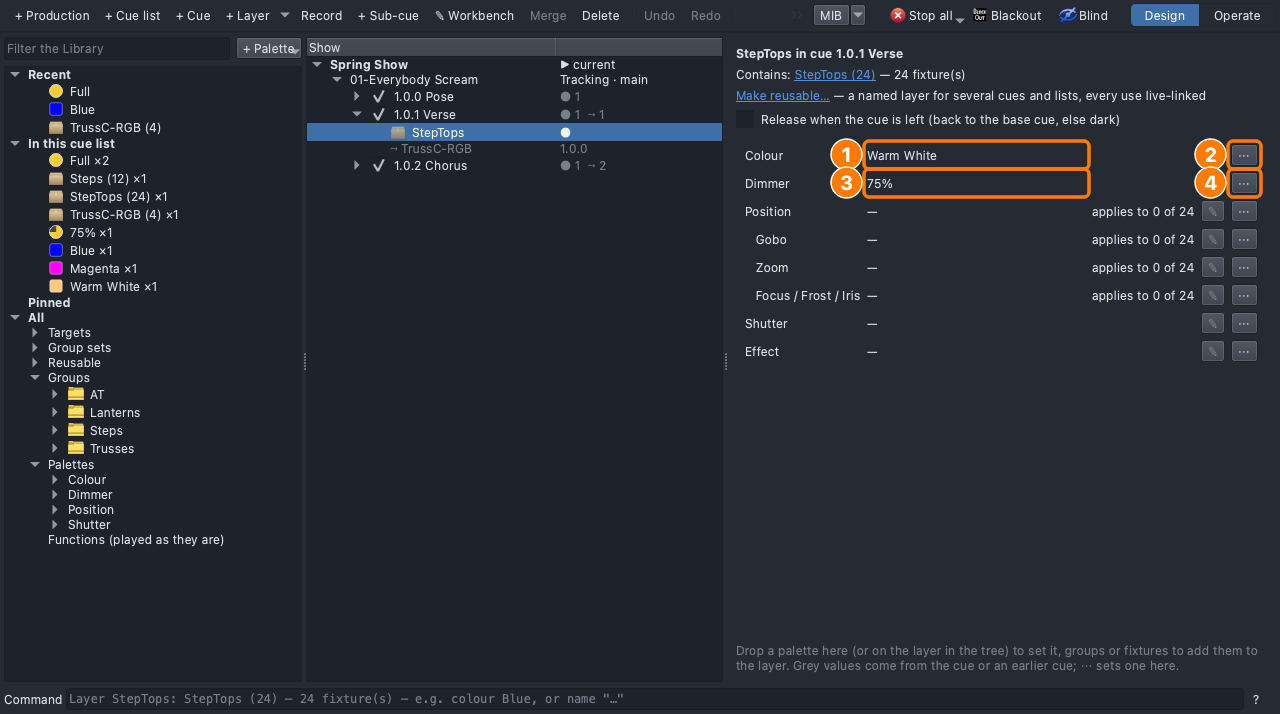
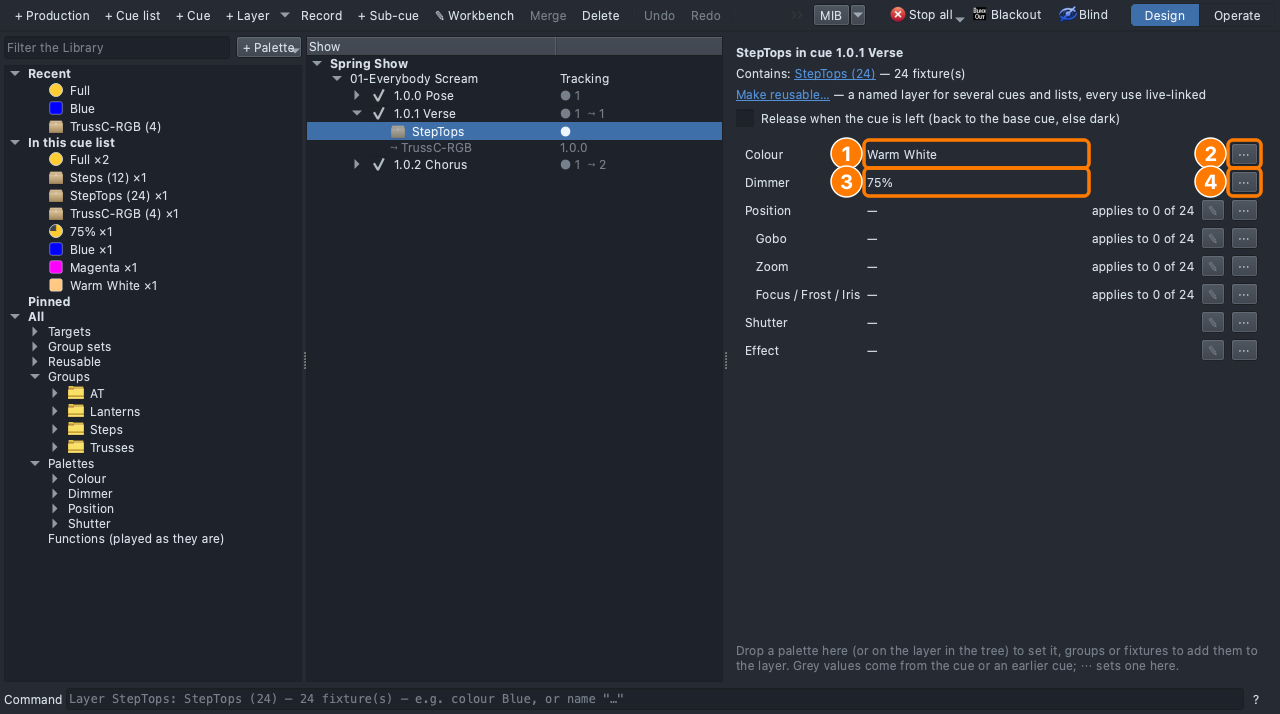
Show Tree: one production, nothing to choose (Q75)
With a single production the Show Tree shows no Current button, Production
switcher, "▶ current" or "· main" (main only with two lists): GO plays
its list. A second production brings them back. Lesson 1.1 no longer warns
students off the Current button; help, course text and pictures updated.

diff --git a/ui/src/showtreeview.cpp b/ui/src/showtreeview.cpp
@@ -897,7 +897,7 @@ ShowTreeView::ShowTreeView(QWidget *parent, Doc *doc)
     // P5: the current production -- what GO, the footer, VC and show
     // control play.
     bar->addSeparator();
-    bar->addWidget(new QLabel(tr("Production:"), this));
+    m_productionLabelAction = bar->addWidget(new QLabel(tr("Production:"), this));
     m_production = new QComboBox(this);
     m_production->setObjectName("stProduction");
     m_production->setToolTip(tr("The current production: what the footer GO (⌘↩), show control (QLab, OSC, "
@@ -905,7 +905,7 @@ ShowTreeView::ShowTreeView(QWidget *parent, Doc *doc)
                                 "list becomes the show's main cue list; its timecode source is followed. "
                                 "A list already running keeps running."));
     m_production->setSizeAdjustPolicy(QComboBox::AdjustToContents);
-    bar->addWidget(m_production);
+    m_productionAction = bar->addWidget(m_production);
     connect(m_production, QOverload<int>::of(&QComboBox::activated), this, [this](int index) {
         m_st->setCurrentProduction(m_production->itemData(index).toUInt());
     });
@@ -2355,6 +2355,8 @@ static QColor readableGrey(const QPalette &pal)
 
 void ShowTreeView::buildTree()
 {
+    // A production added or removed shows or hides the switcher (Q75).
+    updateProductionSwitcher();
     m_reloading = true;
     const quint32 selId = currentId();
     const quint32 selCue = currentCueId();
@@ -2388,7 +2390,7 @@ void ShowTreeView::buildTree()
         pi->setData(0, IdRole, prod.id);
         const bool currentProd = m_st->currentProduction() == prod.id;
         const quint32 mainListId = m_st->mainList(prod.id);
-        if (currentProd)
+        if (currentProd && !singleProduction())
         {
             pi->setText(1, tr("▶ current"));
             pi->setToolTip(0, tr("The current production: GO, the footer and show control play its main list"));
@@ -2411,7 +2413,10 @@ void ShowTreeView::buildTree()
             li->setData(0, IdRole, list.id);
             if (!list.colour.isEmpty())
                 li->setForeground(0, treeTextColour(list.colour));
-            if (!list.looks && list.id == mainListId && (currentProd || m_st->playableLists(prod.id).count() > 1))
+            // One production (Q75): "main" only says something with two lists.
+            if (!list.looks && list.id == mainListId
+                && (singleProduction() ? m_st->playableLists(prod.id).count() > 1
+                                       : (currentProd || m_st->playableLists(prod.id).count() > 1)))
             {
                 li->setText(1, li->text(1) + tr(" · main"));
                 li->setToolTip(1, currentProd ? tr("GO plays this list (the current production's main list)")
@@ -3262,6 +3267,13 @@ void ShowTreeView::showProductionPage(quint32 productionId)
     const bool current = m_st->currentProduction() == productionId;
     m_prodTitle->setText(p->name);
     m_prodCurrent->setText(current ? tr("▶ Current — click to unset") : tr("Make current"));
+    // One production (Q75): it plays on GO; nothing to make current, and a
+    // main list only to pick with two lists.
+    const bool single = singleProduction();
+    m_prodCurrent->setVisible(!single);
+    if (QFormLayout *form = qobject_cast<QFormLayout *>(m_prodPage->layout()))
+        if (QWidget *l = form->labelForField(m_prodCurrent))
+            l->setVisible(!single);
     {
         QSignalBlocker block(m_prodMainList);
         m_prodMainList->clear();
@@ -3269,6 +3281,11 @@ void ShowTreeView::showProductionPage(quint32 productionId)
             m_prodMainList->addItem(m_st->cueList(lid)->name, lid);
         m_prodMainList->setCurrentIndex(qMax(0, m_prodMainList->findData(m_st->mainList(productionId))));
         m_prodMainList->setEnabled(m_prodMainList->count() > 0);
+        const bool pick = !single || m_prodMainList->count() > 1;
+        m_prodMainList->setVisible(pick);
+        if (QFormLayout *form = qobject_cast<QFormLayout *>(m_prodPage->layout()))
+            if (QWidget *l = form->labelForField(m_prodMainList))
+                l->setVisible(pick);
     }
     {
         QSignalBlocker block(m_prodTimecode);
@@ -3288,7 +3305,9 @@ void ShowTreeView::showProductionPage(quint32 productionId)
                         + (looks == invalidId() ? QString()
                            : tr(", %n look(s)", "", int(m_st->looksIn(looks, QString()).count())))
                         + QStringLiteral(".\n\n")
-                        + (current ? tr("Current: GO, the footer, show control and every Cue Runner following "
+                        + (single ? tr("GO, the footer, show control and the Cue Runner play its main list. "
+                                       "With a second production you choose which one plays.")
+                           : current ? tr("Current: GO, the footer, show control and every Cue Runner following "
                                         "the current production play its main list.")
                                    : tr("Not current: its lists play only when picked (a VC Cue List, a Cue "
                                         "Runner set to one of them) or when it is made current. Undo is one "
@@ -3296,8 +3315,19 @@ void ShowTreeView::showProductionPage(quint32 productionId)
     m_pages->setCurrentWidget(m_prodPage);
 }
 
+bool ShowTreeView::singleProduction() const
+{
+    return m_st->productions().count() == 1;
+}
+
 void ShowTreeView::updateProductionSwitcher()
 {
+    // One production (Q75): nothing to switch between.
+    const bool show = m_st->productions().count() > 1;
+    if (m_productionAction != nullptr)
+        m_productionAction->setVisible(show);
+    if (m_productionLabelAction != nullptr)
+        m_productionLabelAction->setVisible(show);
     QSignalBlocker block(m_production);
     m_production->clear();
     m_production->addItem(tr("None (the main cue list)"), invalidId());
@@ -6694,7 +6724,7 @@ void ShowTreeView::slotTreeContextMenu(const QPoint &pos)
                 menu.addAction(tr("Restore original…"), this, [this, id]() { restoreOriginal(id); })
                     ->setObjectName("stRestoreOriginal");
         }
-        if (kind == ProductionNode)
+        if (kind == ProductionNode && !singleProduction())
         {
             const quint32 id = item->data(0, IdRole).toUInt();
             const bool cur = m_st->currentProduction() == id;
@@ -6710,7 +6740,7 @@ void ShowTreeView::slotTreeContextMenu(const QPoint &pos)
             if (m_st->mainList(pid) != id)
                 menu.addAction(tr("Make main list"), this, [this, id]() { m_st->setMainList(id); })
                     ->setObjectName("stMakeMainList");
-            if (m_st->currentProduction() != pid || m_st->mainList(pid) != id)
+            if ((m_st->currentProduction() != pid && !singleProduction()) || m_st->mainList(pid) != id)
                 menu.addAction(tr("Play on GO (make current, main list)"), this, [this, id, pid]() {
                     m_st->setMainList(id);
                     m_st->setCurrentProduction(pid);

diff --git a/ui/test/showtreeview/showtreeview_test.cpp b/ui/test/showtreeview/showtreeview_test.cpp
@@ -60,6 +60,7 @@
 #include "chasereditor.h"
 #include "noteedit.h"
 #include <QInputDialog>
+#include <QWidgetAction>
 #include <QPointer>
 #include <QSpinBox>
 #include <QMessageBox>
@@ -213,10 +214,28 @@ void ShowTreeView_Test::theTreeShowsProductionsListsCuesAndLayers()
 
     ShowTreeView view(nullptr, m_doc);
     const QStringList text = treeText(view.tree());
-    // The only production: current as it was made, its list GO's.
-    QCOMPARE(text, QStringList({ QString::fromUtf8("DanceHysteria [\u25B6 current]"),
-                                 QString::fromUtf8("  01-Everybody Scream [Non-tracking \u00B7 main]"),
+    // The only production (Q75): current as it was made, GO plays its one
+    // list, and neither "current" nor "main" is shown -- nothing to choose.
+    QCOMPARE(st->currentProduction(), prod);
+    QCOMPARE(text, QStringList({ QString::fromUtf8("DanceHysteria"),
+                                 QString::fromUtf8("  01-Everybody Scream [Non-tracking]"),
                                  "    1.0.0 PreCurtain", "      Towers" }));
+    auto switcherShown = [&view]() {
+        QComboBox *combo = view.findChild<QComboBox *>("stProduction");
+        for (QWidgetAction *a : view.findChildren<QWidgetAction *>())
+            if (a->defaultWidget() == combo)
+                return a->isVisible();
+        return false;
+    };
+    QVERIFY(!switcherShown());
+    // A second production brings current, main and the switcher back.
+    const quint32 prod2 = st->addProduction("Spring");
+    st->addCueList(prod2, "Opener", ListMode::Tracking);
+    QVERIFY(treeText(view.tree()).contains(QString::fromUtf8("DanceHysteria [\u25B6 current]")));
+    QVERIFY(treeText(view.tree()).contains(QString::fromUtf8("  01-Everybody Scream [Non-tracking \u00B7 main]")));
+    QVERIFY(switcherShown());
+    QVERIFY(st->removeProduction(prod2));
+    QVERIFY(!switcherShown());
 
     // An edit elsewhere shows at once.
     st->addCue(list, 0, "Verse");
@@ -1444,7 +1463,7 @@ void ShowTreeView_Test::trackingControlsOnTheListAndCuePages()
     emit mode->activated(1);
     QCOMPARE(st->cueList(list)->mode, ListMode::Tracking);
     QVERIFY(trackedRow(view.tree(), c2, "Towers") != nullptr);
-    QVERIFY(treeText(view.tree()).contains(QString::fromUtf8("  L [Tracking \u00B7 main]")));
+    QVERIFY(treeText(view.tree()).contains(QString::fromUtf8("  L [Tracking]")));   // one production (Q75)
 
     // The base from the list page...
     base->setCurrentIndex(1);

diff --git a/ui/src/showtreeview.h b/ui/src/showtreeview.h
@@ -789,6 +789,13 @@ private:
     QComboBox *m_prodTimecode = nullptr;
     QLabel *m_prodInfo = nullptr;
     QComboBox *m_production = nullptr;
+    /** The header's "Production:" label and switcher, hidden with one
+     *  production (Q75). */
+    class QAction *m_productionLabelAction = nullptr;
+    class QAction *m_productionAction = nullptr;
+    /** One production (Q75): it plays on GO; no Current / Main list /
+     *  switcher until a second one is added. */
+    bool singleProduction() const;
     class MoveInBlackButton *m_moveInBlack = nullptr;
     void showProductionPage(quint32 productionId);
     void updateProductionSwitcher();

diff --git a/docs/course/level-1/lesson-01/handout.md b/docs/course/level-1/lesson-01/handout.md
@@ -153,9 +153,8 @@ later), and **(6)** the tabs.
 
 ### Play it
 
-Your production is already the one GO plays: the tree marks it
-**▶ current**. Leave its **Current** button alone, because clicking it
-would turn that off.
+Your production is the one GO plays. It's the only production in the
+show, so there's nothing to choose.
 
 13. Click the **Run** tab (⇧⌘9) and press **GO** (or **Space**) three
     times.
@@ -182,7 +181,7 @@ would turn that off.
 |---|---|
 | A dialog asked something unexpected | Cancel it, select the right row in the tree first (the production, for + Cue list), and try again. |
 | The group landed in the wrong cue | **Undo** (⌘Z), click the right cue, and drag again. |
-| GO does nothing | Check that **Spring Show** is marked **▶ current** in the tree. If it isn't, click it and click its **Current** button once. |
+| GO does nothing | Check that the cue list has cues, then click the **Run** tab again. |
 | Nothing lights in the Rig Overview | The stage shows the selected cue, so make sure a **cue** is selected in the tree, and that **Live** is on in the Rig Overview. |
 | You can't find a palette | Type its name in **Filter the Library** at the top left. |
 

diff --git a/docs/course/level-1/lesson-01/teacher-guide.md b/docs/course/level-1/lesson-01/teacher-guide.md
@@ -112,7 +112,7 @@ Stop there; the students build the rest.
 | A layer in the wrong cue | Dropped while another cue was selected | "Undo, click the right cue, drop again." |
 | Stage stays dark | No cue selected (the stage shows the selected cue in Design), or the Rig Overview's **Live** is off | "Click your cue in the tree." |
 | Cue numbers 1.0.0.5 or similar | + Cue pressed with an earlier cue selected: the new cue goes in after it, as a **point cue** | "Drag it below the last cue: it takes the next number." (Lesson 1.5's extension covers point cues and renumbering.) |
-| GO does nothing in the Run tab | The production was un-set (someone clicked its **▶ Current** button) | "Click Spring Show, then its Current button once." |
+| GO does nothing in the Run tab | The list has no cues yet, or the Run tab shows "No main cue list" | "Add a cue (+ Cue) and go back to Run." |
 | Footer says **No outputs: preview only** | Expected: the show has no outputs | "That's because it isn't plugged into real lights — on purpose. Red down there would mean a real problem." |
 
 ## 4. Check for understanding (while circulating)

diff --git a/docs/features/show-tree.md b/docs/features/show-tree.md
@@ -1716,6 +1716,11 @@ and the corporate gig in the same venue. They share the Library (groups,
 palettes, targets, reusables); each has its own cue lists and its own Looks
 section. **Undo is one history** for all of them.
 
+**With one production** (most shows) none of this shows: it is the one GO
+plays, and there is no Current button, switcher or **· main** mark (a main
+list is offered only once it has two lists). Add a second production and
+the rest of this section applies.
+
 - **The current production** is what plays: the footer GO (**⌘↩**), Back,
   Sub GO, show control (QLab, OSC, MSC) and every Cue Runner set to follow
   "the current production". Pick it in the header's **Production:** switcher,

diff --git a/CHANGELOG.md b/CHANGELOG.md
@@ -165,6 +165,11 @@ circuits and subs.
 
 ### Changed
 
+- **One production, nothing to choose** (board Q75). A show with a single
+  production doesn't show Current, the Production switcher or "· main"
+  (unless it has two lists): GO plays its list. A second production brings
+  them back. Lesson 1.1 no longer warns students off the Current button.
+
 - **Level… and Colour… are docked** in the Show Tree (board Q61): they open
   in a strip above the command line, inside the window, instead of a
   separate window that could fall behind the main one. Apply / Return sets

diff --git a/docs/course/level-1/lesson-01/slides.md b/docs/course/level-1/lesson-01/slides.md
@@ -75,7 +75,7 @@ teacher says. It can be turned into a deck as it is.*
 ## 11. GO
 
 - Picture: `run-tab.png`
-- The new production is already current (▶ current): Run tab, GO ×3.
+- The only production is the one GO plays: Run tab, GO ×3.
 
 ## 12. Your turn
 
